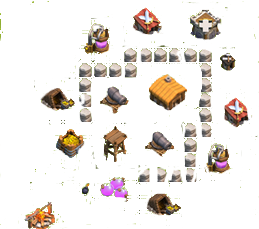
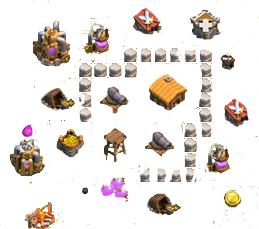
new design implement

diff --git a/leapfrog/js/final-project/script/playground.js b/leapfrog/js/final-project/script/playground.js
@@ -1,8 +1,17 @@
+/**
+ * Playground is the actual Base or Village that is pre-defined on our set
+ */
+
 class PlayGround {
     constructor() {
 
+        this.collector = true;
+	    this.elixirStorage = 1000;
+
     }
 
+
+    // draw method simply draws different sprites on our village
     draw = () => {
         for (var x = 0; x < 40; x++) {
             for (var y = 0; y < 30; y++) {
@@ -20,14 +29,37 @@ class PlayGround {
                 this.drawEdgeTileTop(x, y);
             }
         }
-        townHall.draw(150, 73, -35, 245, image);
-        for (var i = 0; i < 5; i++) {
-            wall.draw(185, 50, -30 - (i * 10), 245 + (i * 5), image);
-        }
-        canon.draw(101, 87, -30, 330, image);
+        this.horizontalWall(6, 40, 280);
+		this.horizontalWall(2, -45, 263);
+		this.verticalWall(6, -65, 275);
+		this.horizontalWall(6, 20, 320);
+		this.verticalWall(2, 0, 310);
+		this.verticalWall(2, 40, 270);
+        townHall.draw(150, 73, -35, 225, image);
+        canon.draw(101, 87, -40, 305, image);
         goldStorage.draw(58, 129, 60, 280, image);
         campFire.draw(25, 203, -80, 305, image);
+        barrack.draw(225, 100, 60, 260, image);
+		if (this.collector){
+			getMine.draw(20, 123, -50, 353, image);
+		}
+		this.displayScore();
+		elixirCollector.draw(32, 21, -60, 365, image);
+		goldCollector.draw(148, 194, 60, 340, image);
     }
+
+    horizontalWall = (n, x, y) => {
+		for (var i=0;i<n; i++){
+			wall.draw(185, 50, x - (i * 10), y + (i * 5), image);
+		}
+
+	}
+
+	verticalWall = (n, x, y) => {
+		for (var i=0;i<n; i++){
+			wall.draw(185, 50, x + (i * 10), y + (i * 5), image);
+		}
+	}
 
     drawImageTile = (x, y) => {
         ctx.save();
@@ -56,6 +88,22 @@ class PlayGround {
         ctx.drawImage(image4, 0, 0, 60, 45, 140, -132, 60, 45);
         ctx.restore();
     }
+
+    displayScore = () => {
+        ctx.font = "18px Georgia";
+        var gradient = ctx.createLinearGradient(0, 0, 850, 0);
+        gradient.addColorStop("0"," magenta");
+        gradient.addColorStop("0.5", "blue");
+        gradient.addColorStop("1.0", "red");
+        ctx.fillStyle = gradient;
+        getMine.draw(20, 123, 280, 85, image)
+        ctx.fillText(`Elixir: ${this.elixirStorage}`, 300, 100);
+    }
+
+    minerCollectorCollectTrue = () => {
+        this.collector = true;
+        this.draw();
+	}
 }
 
 

diff --git a/leapfrog/js/final-project/script/sprite.js b/leapfrog/js/final-project/script/sprite.js
@@ -54,7 +54,20 @@ const canon = {
 
 	draw: function(sx, sy, dx, dy, image){
 		ctx.drawImage(image, sx, sy, this.sw, this.sh, dx, dy, this.dw, this.dh);
-	}
+	},
+
+
+}
+
+const canonBall = {
+	sw: 6,
+	sh: 7,
+	dw: 6,
+	dh: 7,
+
+	draw: function(sx, sy, dx, dy, image){
+		ctx.drawImage(image, sx, sy, this.sw, this.sh, dx, dy, this.dw, this.dh);
+	},
 }
 
 const goldStorage = {
@@ -80,5 +93,51 @@ const campFire = {
 	draw: function(sx, sy, dx, dy, image){
 		ctx.drawImage(image, sx, sy, this.sw, this.sh, dx, dy, this.dw, this.dh);
 
+	}
+}
+
+const elixirCollector = {
+	sw: 40,
+	sh: 45,
+	dw: 45,
+	dh: 43,
+
+	draw: function(sx, sy, dx, dy, image){
+		ctx.drawImage(image, sx, sy, this.sw, this.sh, dx, dy, this.dw, this.dh);
+	}
+}
+
+const goldCollector = {
+	sw: 33,
+	sh: 32,
+	dw: 45,
+	dh: 43,
+
+	draw: function(sx, sy, dx, dy, image){
+		ctx.drawImage(image, sx, sy, this.sw, this.sh, dx, dy, this.dw, this.dh);
+	}
+}
+
+
+const getMine = {
+	sw: 14,
+	sh: 15,
+	dw: 14,
+	dh: 15,
+
+	draw: function(sx, sy, dx, dy, image){
+		ctx.drawImage(image, sx, sy, this.sw, this.sh, dx, dy, this.dw, this.dh);
+	}
+}
+
+
+const barrack = {
+	sw: 23,
+	sh: 28,
+	dw: 23,
+	dh: 28,
+
+	draw: function(sx, sy, dx, dy, image){
+		ctx.drawImage(image, sx, sy, this.sw, this.sh, dx, dy, this.dw, this.dh);
 	}
 }

diff --git a/leapfrog/js/final-project/script/main.js b/leapfrog/js/final-project/script/main.js
@@ -1,10 +1,20 @@
 let p1;
-function init(){
+function init() {
     p1 = new PlayGround();
     p1.draw();
 
+    canvas.addEventListener('click', function (e) {
+        if (e.clientY - 365 < 30 && e.clientY - 365 > 0) {
+            if (p1.collector) {
+                p1.elixirStorage += 500;
+            }
+            p1.collector = false;
+            p1.draw();
+        }
+    })
+    setInterval(p1.minerCollectorCollectTrue, 20000);
 
 }
-window.onload = function(){   
+window.onload = function () {
     init();
 }
